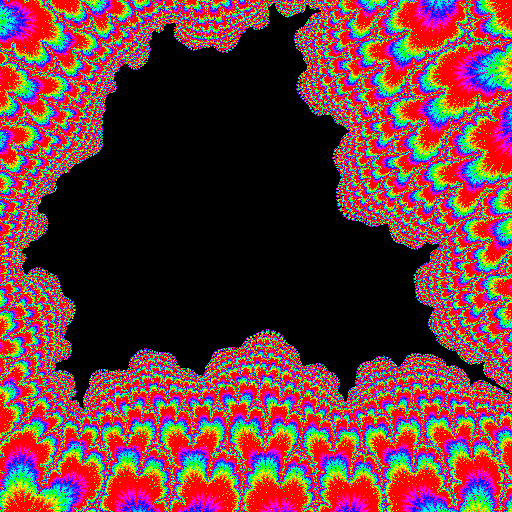
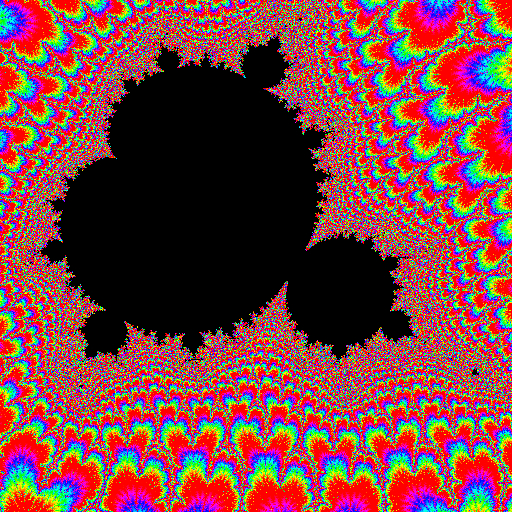
Ready for render (almost)

Changed region(s): [[0.0312, 0.0, 0.9688, 0.8125], [0.9688, 0.75, 1.0, 0.7812]]

diff --git a/multi1.py b/multi1.py
@@ -10,7 +10,7 @@ scl = 1 * 10**10 #7
 maximum = 1 * 10**14
 deltaScale = 1#(10**0.2) / (10**0.0)
 
-limit = 6000
+limit = 20000
 
 cores = cpu_count()
 
